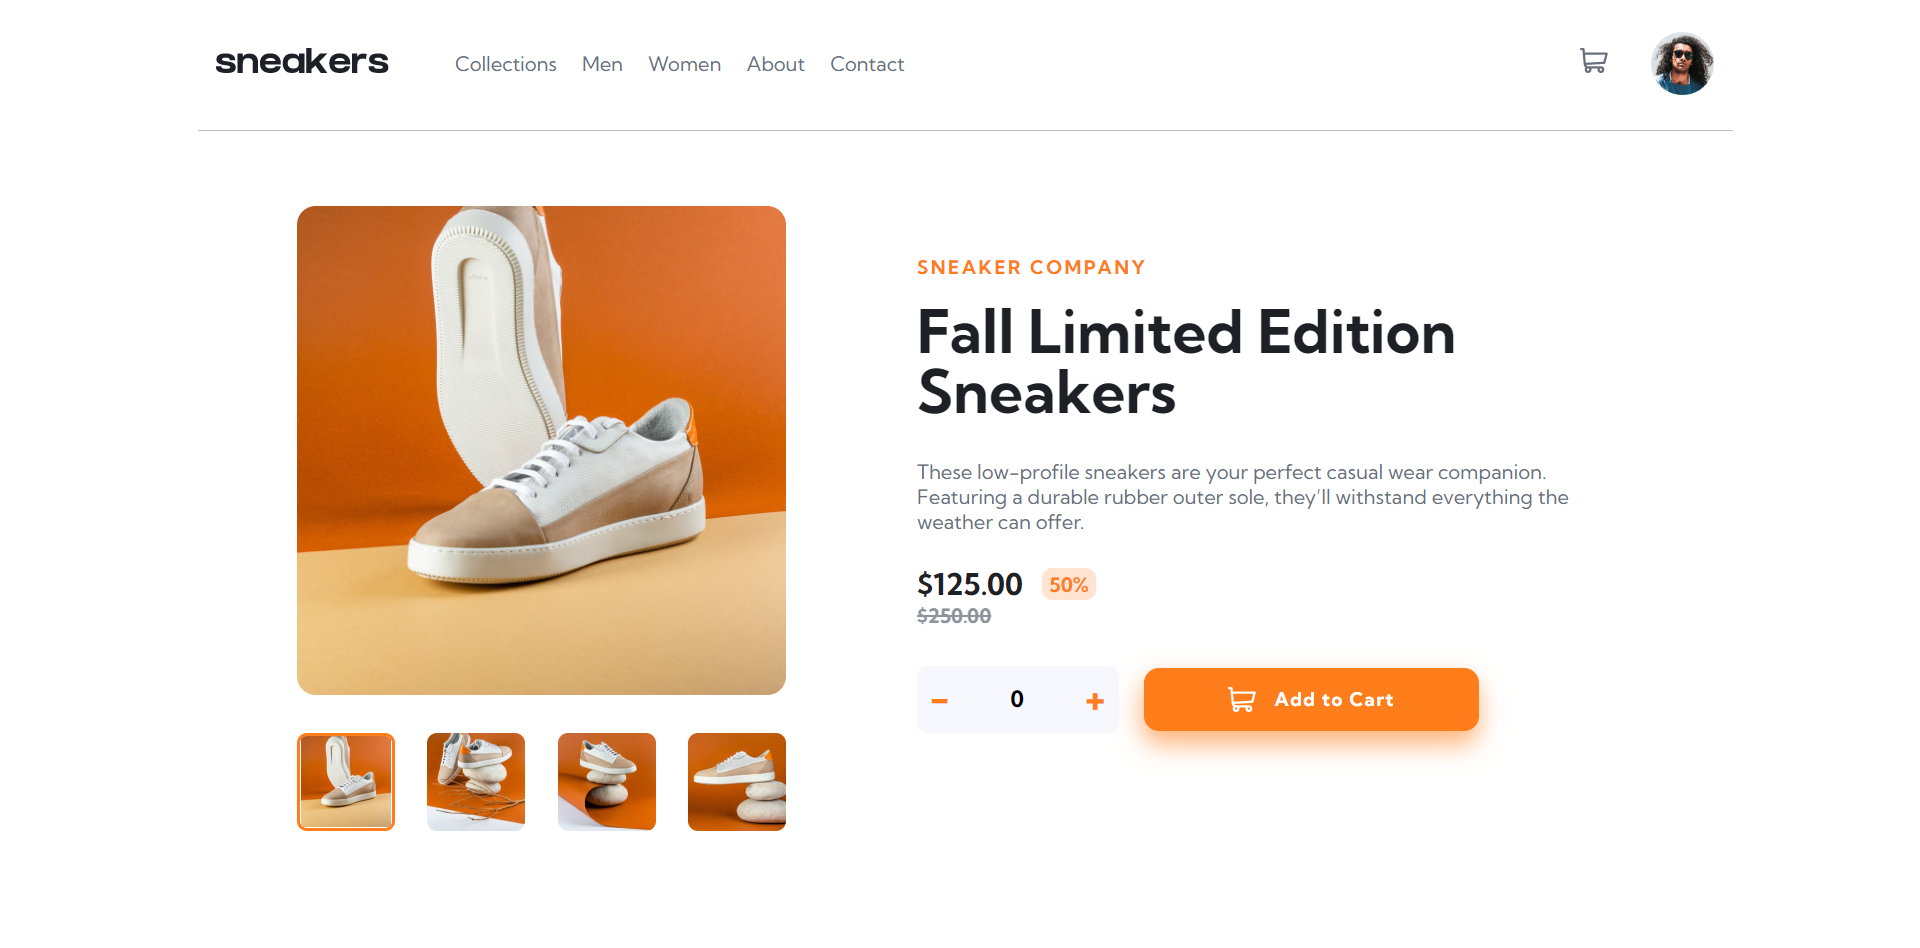
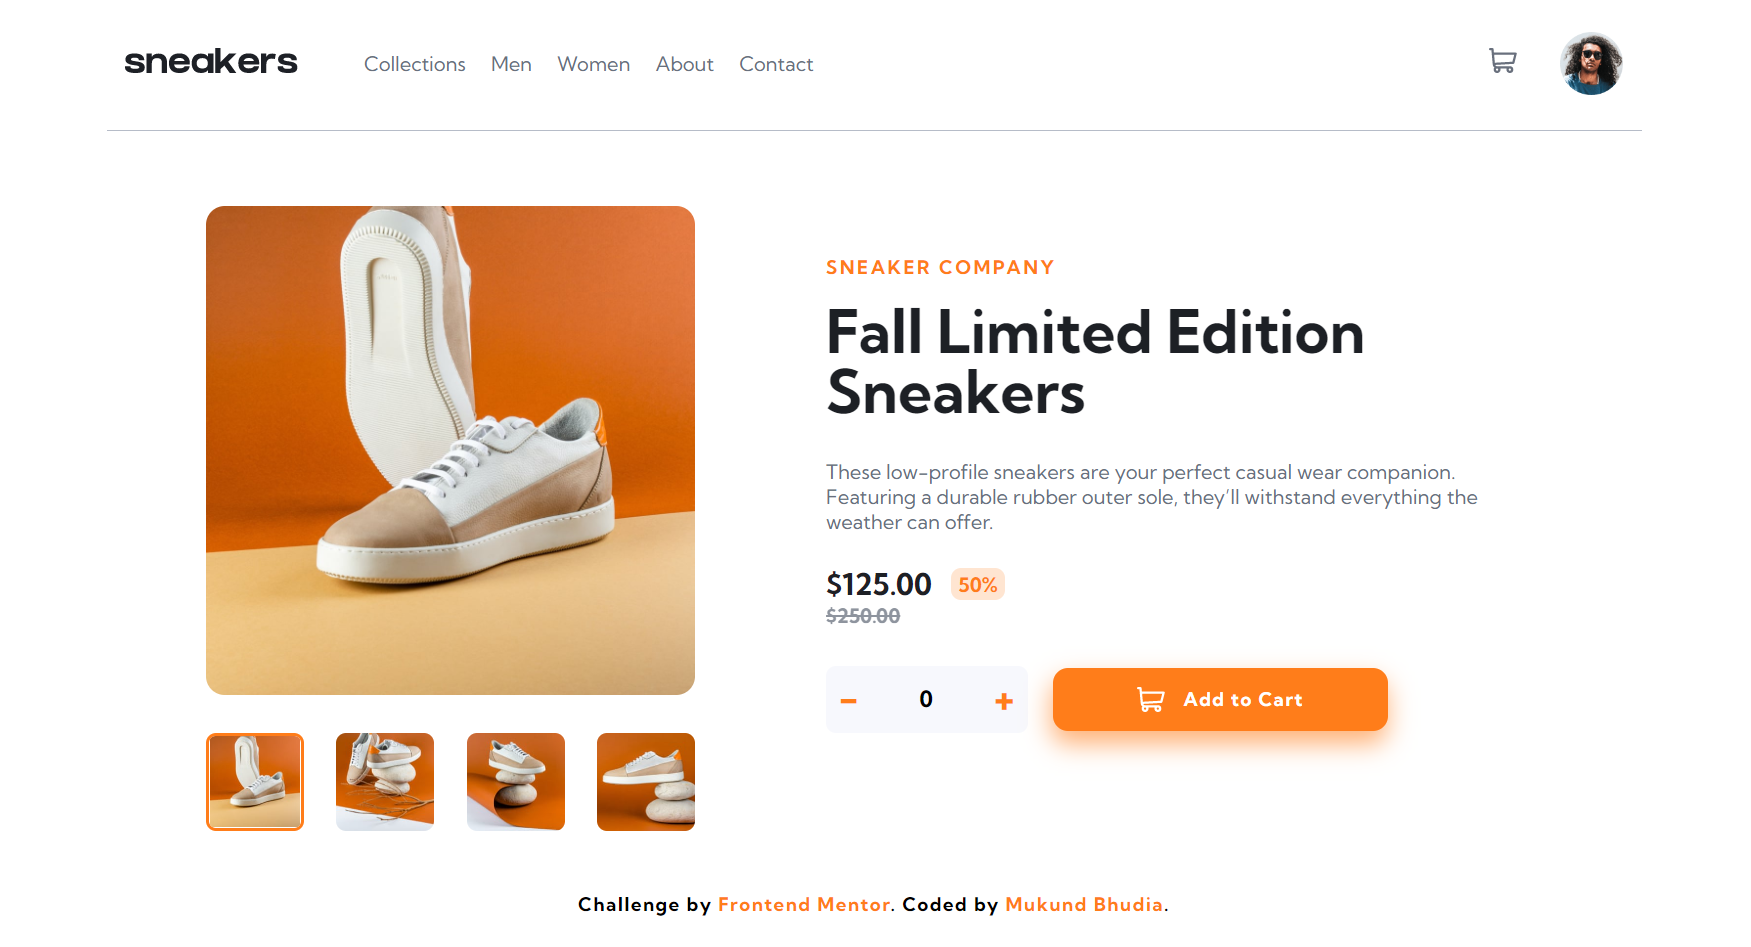
First commit Message

diff --git a/src/App.js b/src/App.js
@@ -1,8 +1,8 @@
 import { useState } from "react";
-import Header from "./comopnents/Header";
-import Main from "./comopnents/Main";
-import Slideshow from "./comopnents/Slideshow";
-import SlideshowMobile from "./comopnents/SlideshowMobile";
+import Header from "./components/Header";
+import Main from "./components/Main";
+import Slideshow from "./components/Slideshow";
+import SlideshowMobile from "./components/SlideshowMobile";
 import styled from "styled-components";
 
 function App() {
@@ -30,6 +30,13 @@ function App() {
         visible={carousel}
         setCarousel={setCarousel}
       />
+      <div class="attribution">
+        Challenge by{" "}
+        <a href="https://www.frontendmentor.io?ref=challenge" target="_blank">
+          Frontend Mentor
+        </a>
+        . Coded by <a href="#">Mukund Bhudia</a>.
+      </div>
     </div>
   );
 }

diff --git a/src/index.css b/src/index.css
@@ -21,6 +21,22 @@ body {
   user-select: none;
 }
 
+.attribution {
+  font-size: 15px;
+  text-align: center;
+  font-weight: 700;
+  font-family: inherit;
+  position: relative;
+  top: 20px;
+  letter-spacing: 1.2px;
+  z-index: -1;
+}
+
+.attribution a {
+  color: var(--Orange);
+  text-decoration: none;
+}
+
 @media only screen and (max-width:900px) {
   body {
     padding: 5px 25px;
